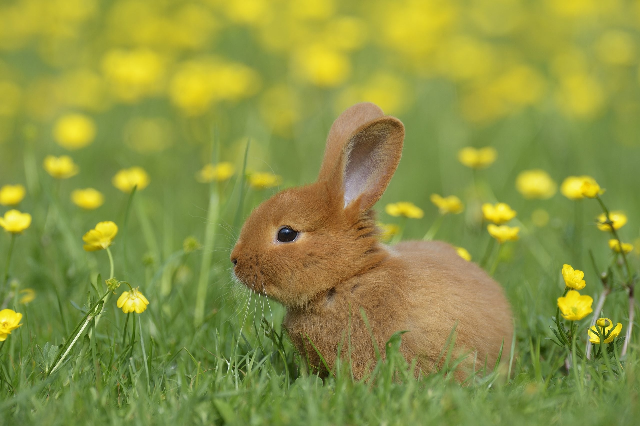
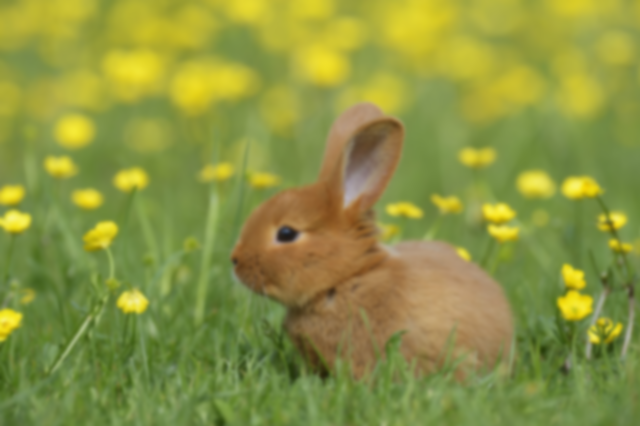
image pyramid working

diff --git a/cult.cpp b/cult.cpp
@@ -12,6 +12,7 @@ void Cult::run(const QStringList &framePaths, const QString &texturePath) {
     //Make source texture image pyramid - only do this once!
     std::cout << texturePath.toStdString() << std::endl;
     Image tex = ImageUtils::readImage(texturePath, false);
+    m_sourceTexture = tex;
     m_texPyramid = ImagePyramid::make_gaussian_pyramid(tex, 0.5f);
 
     //save for debug
@@ -19,6 +20,13 @@ void Cult::run(const QStringList &framePaths, const QString &texturePath) {
         QString outPath = QString("../color-me-noisy/debug_pyramid/tex_pyramid_level_%1.png").arg(i);
         ImageUtils::writeImage(m_texPyramid[i], outPath);
     }
+
+    Image prevOutput;
+    Image cur_frame = ImageUtils::readImage(framePaths[0], true);
+    Image output_frame = processFrame(cur_frame, prevOutput); //main loop happens here
+    m_outputFrames.push_back(output_frame);
+
+
 
 //    Image prevOutput;
 //    //main loop
@@ -59,11 +67,14 @@ Image Cult::processFrame(const Image& frame, const Image& prevOutput){
 
     for (int level = framePyramid.size() - 1; level >= 0; level--) {
         // deform, patch-match, upsample output to seed next level
+        Image cur_image = framePyramid[level];
+        QString outPath = QString("../color-me-noisy/debug_pyramid/framepyramid_level_%1.png").arg(level);
+        ImageUtils::writeImage(cur_image, outPath);
 
         //Update this to be the correct texture
-        Image s_deformed = deformImage(m_sourceTexture);
+//        Image s_deformed = deformImage(m_sourceTexture);
 
-        output_frame = patchmatch(s_deformed, m_texPyramid[level]);
+//        output_frame = patchmatch(s_deformed, m_texPyramid[level]);
 
         if (level > 0) { //dont upsample at the last level
             output_frame = ImagePyramid::upsample(output_frame);

diff --git a/image_pyramid.cpp b/image_pyramid.cpp
@@ -8,7 +8,7 @@ std::vector<Image> ImagePyramid::make_gaussian_pyramid(Image image, float filter
     //Do we determine num levels in here or explicitly in cult?
 //    int numLevels = num_levels(image, filterStrength);
 
-    int numLevels = 5;
+    int numLevels = 3;
     
     for(int i = 0; i < numLevels; i++){
         //get filter strength at level by calling that func? then can pass a filter strenhgth
@@ -22,8 +22,8 @@ std::vector<Image> ImagePyramid::make_gaussian_pyramid(Image image, float filter
 }
 
 Image ImagePyramid::downsample(const Image& image, float fStrength){
-    //Image blurred_image = blur(image);
-    Image blurred_image = image;
+    Image blurred_image = blur(image);
+//    Image blurred_image = image;
 
     //basically blurred[::2, ::2], or take every other pixel
     int w = image.width / 2;
@@ -46,6 +46,7 @@ Image ImagePyramid::downsample(const Image& image, float fStrength){
 }
 
 Image ImagePyramid::upsample(const Image& image){
+    // biliear filtering to to double pix count
     return image;
 }
 
@@ -114,7 +115,7 @@ std::vector<float> makeKernel(int radius, float sigma){
 }
 
 Image ImagePyramid::blur(const Image& image){
-    float sigma = 1.0f;
+    float sigma = 3.0f;
     int radius = 3.0f * sigma;
     int diam = radius*2+1;
 
